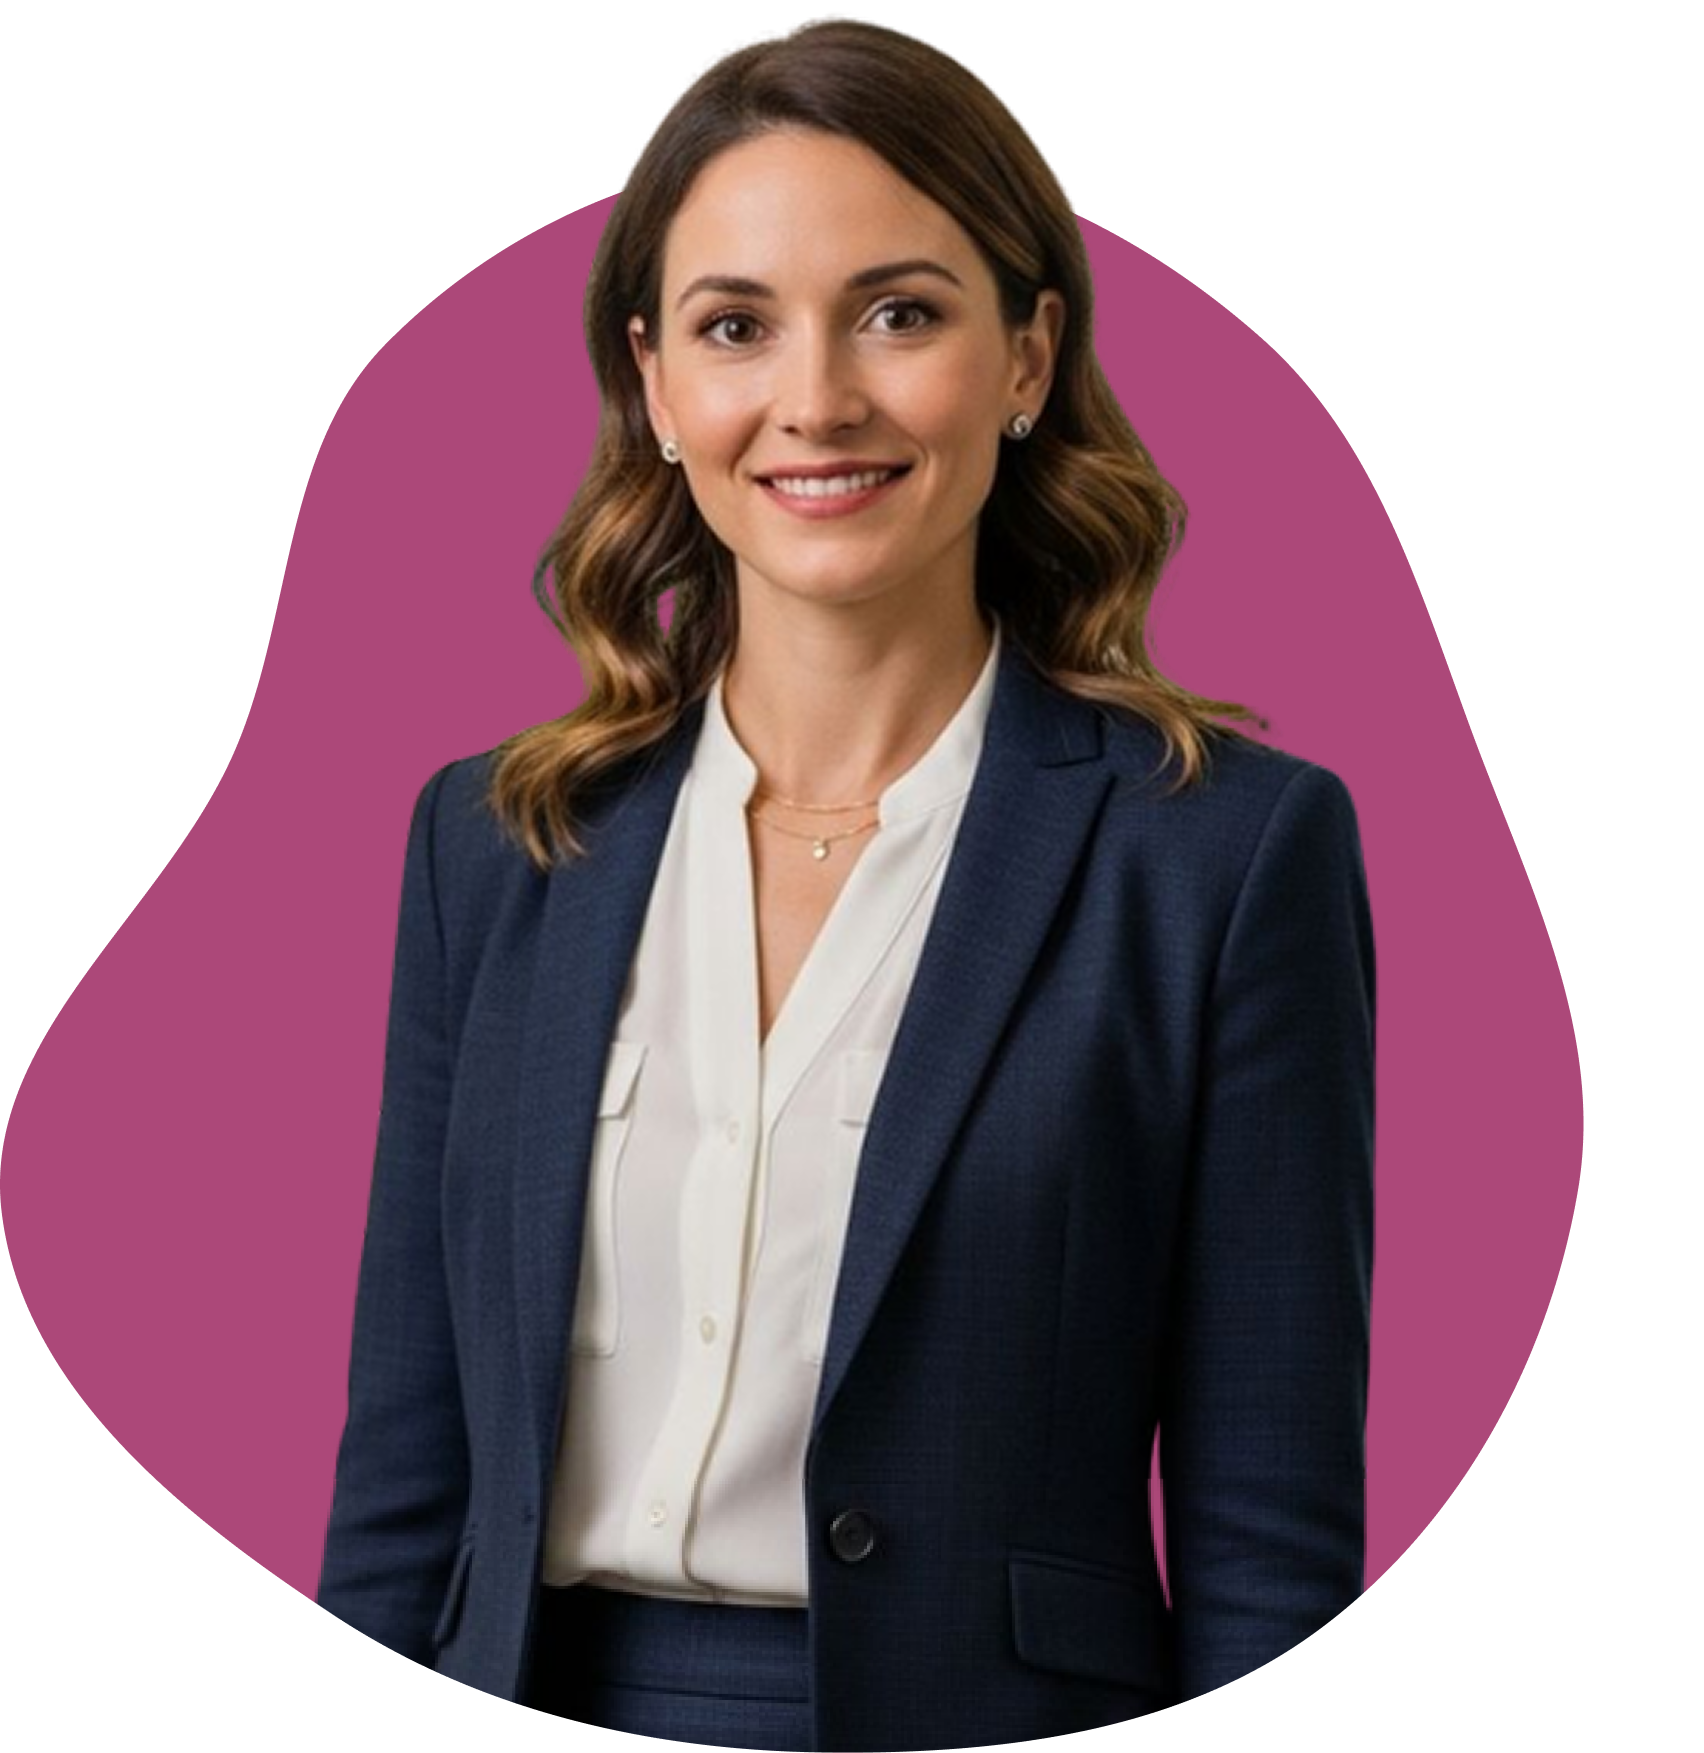
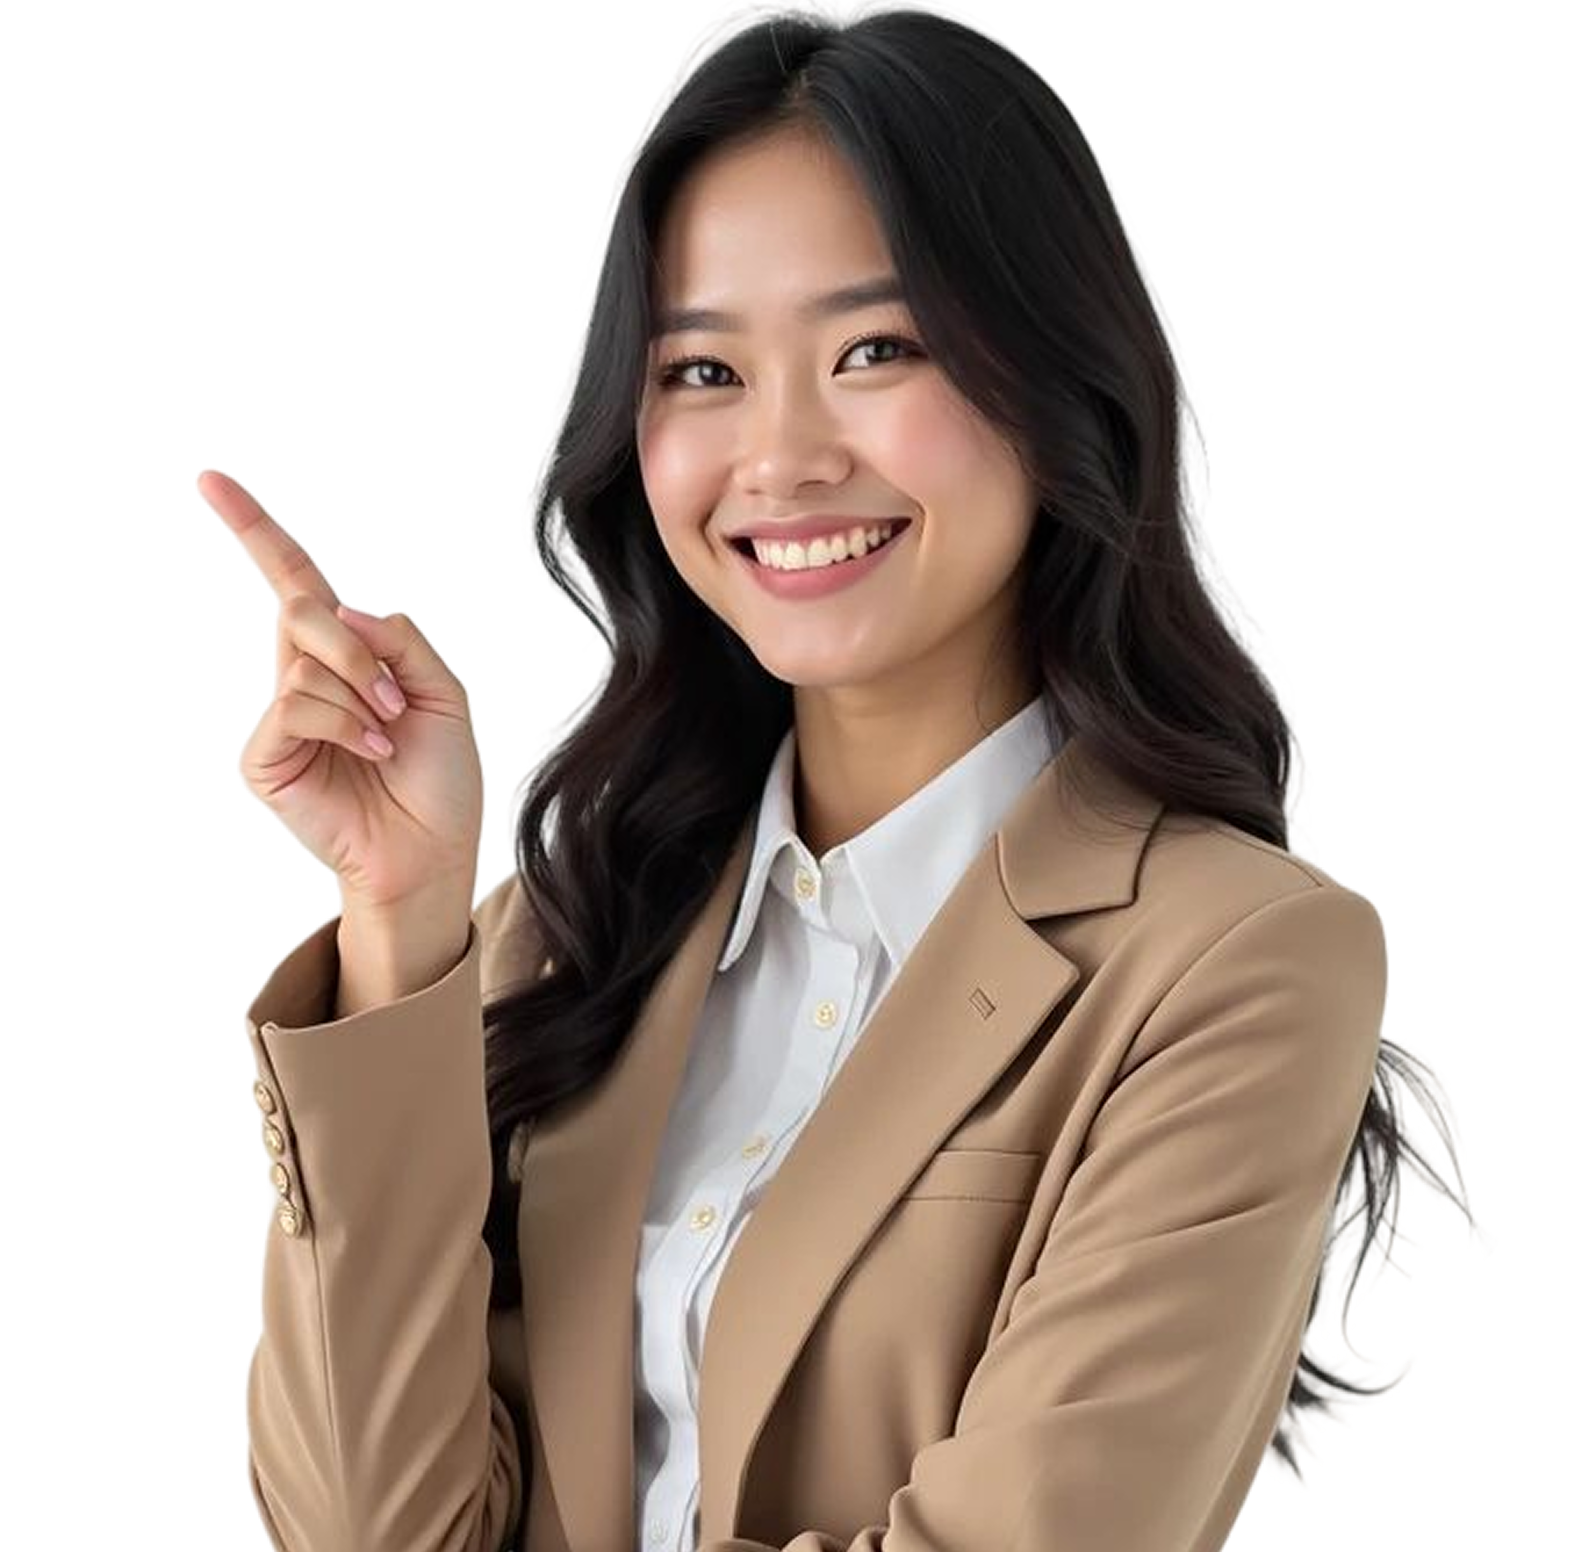
use sessionStorage and support reopen on page refreshes for WelcomeLoader

diff --git a/src/components/WelcomeLoader.tsx b/src/components/WelcomeLoader.tsx
@@ -9,14 +9,21 @@ export default function WelcomeLoader() {
   const [shouldRender, setShouldRender] = useState(false);
 
   useEffect(() => {
-    // Check if the user has visited before using localStorage
-    const hasVisited = localStorage.getItem('chalky_welcomed_v1');
+    // Check if the page is being reloaded/refreshed
+    const navigationEntries = performance.getEntriesByType('navigation');
+    const isReload = navigationEntries.length > 0 && (navigationEntries[0] as PerformanceNavigationTiming).type === 'reload';
+
+    if (isReload) {
+      sessionStorage.removeItem('chalky_welcomed_session');
+    }
+
+    const hasVisited = sessionStorage.getItem('chalky_welcomed_session');
     if (!hasVisited) {
       setShouldRender(true);
       // Wait for loader to complete before hiding
       const timer = setTimeout(() => {
         setLoading(false);
-        localStorage.setItem('chalky_welcomed_v1', 'true');
+        sessionStorage.setItem('chalky_welcomed_session', 'true');
       }, 2800);
       return () => clearTimeout(timer);
     } else {